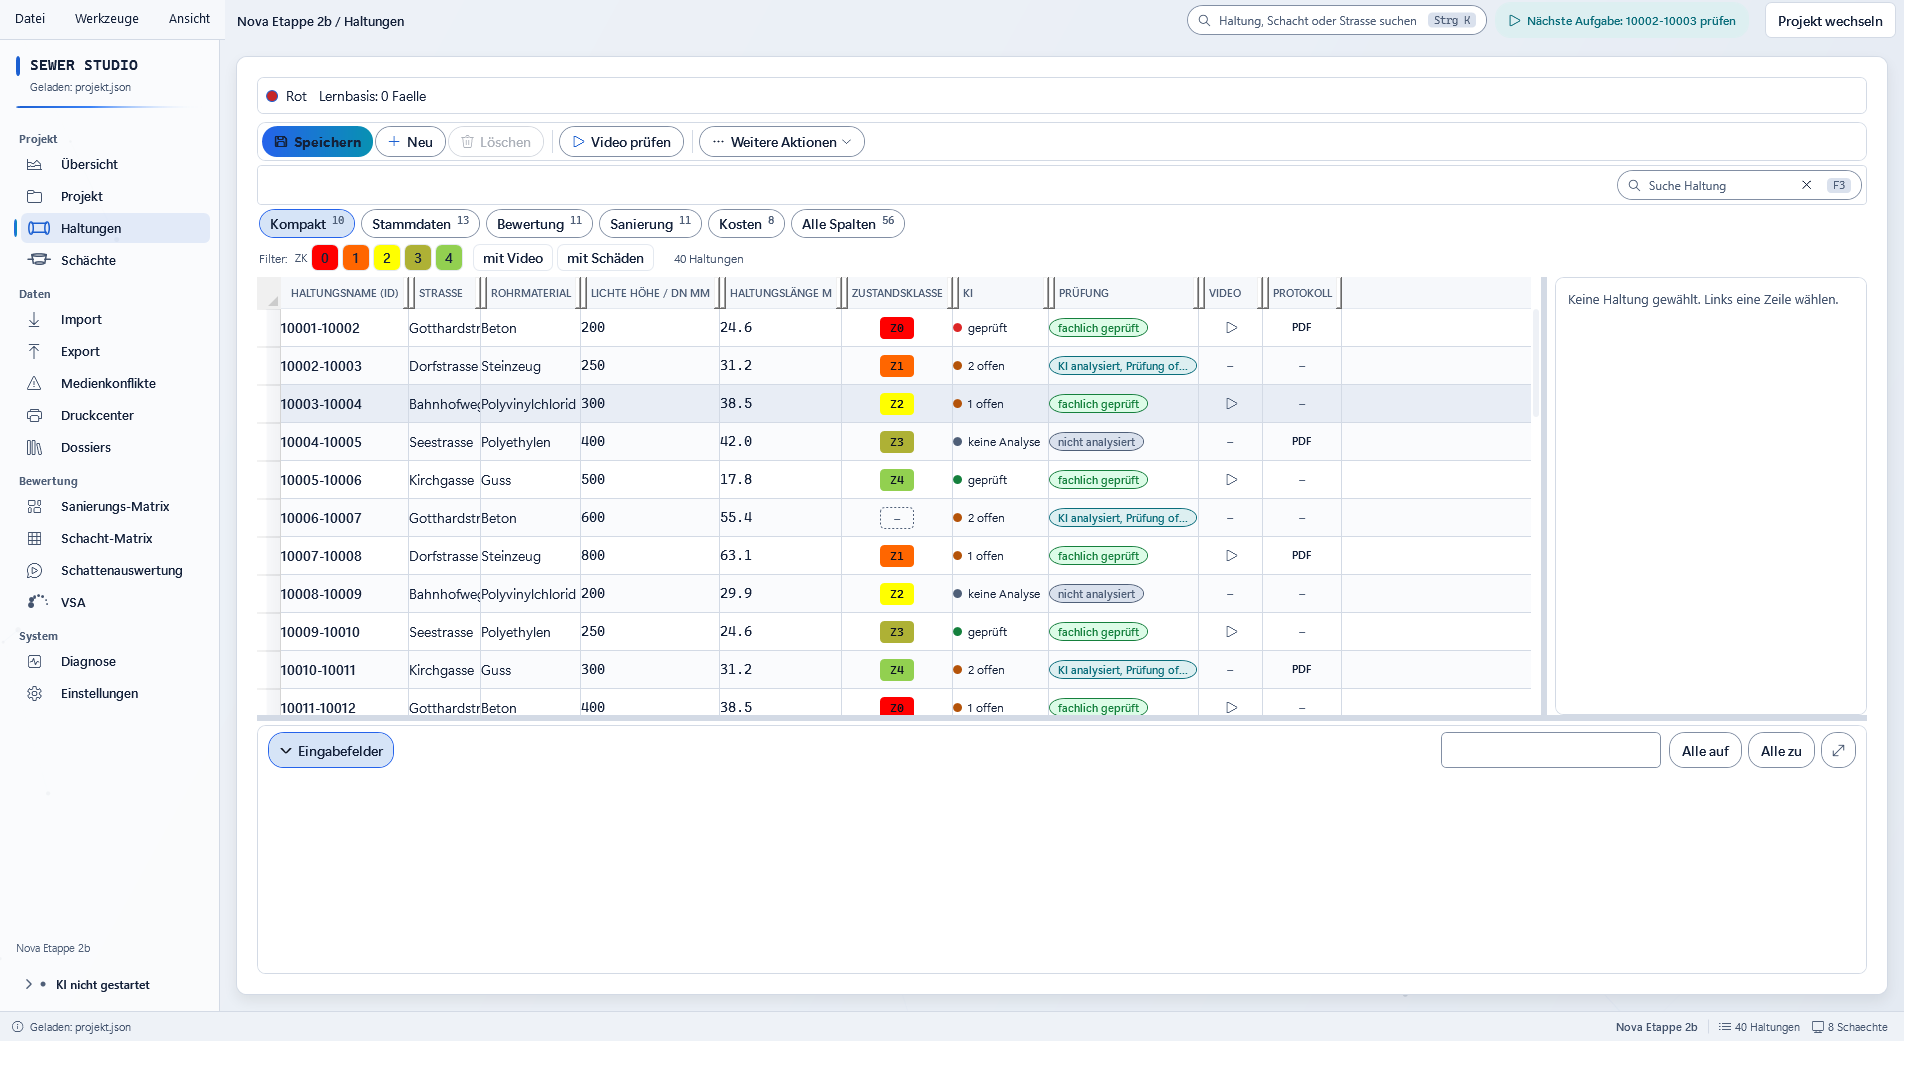
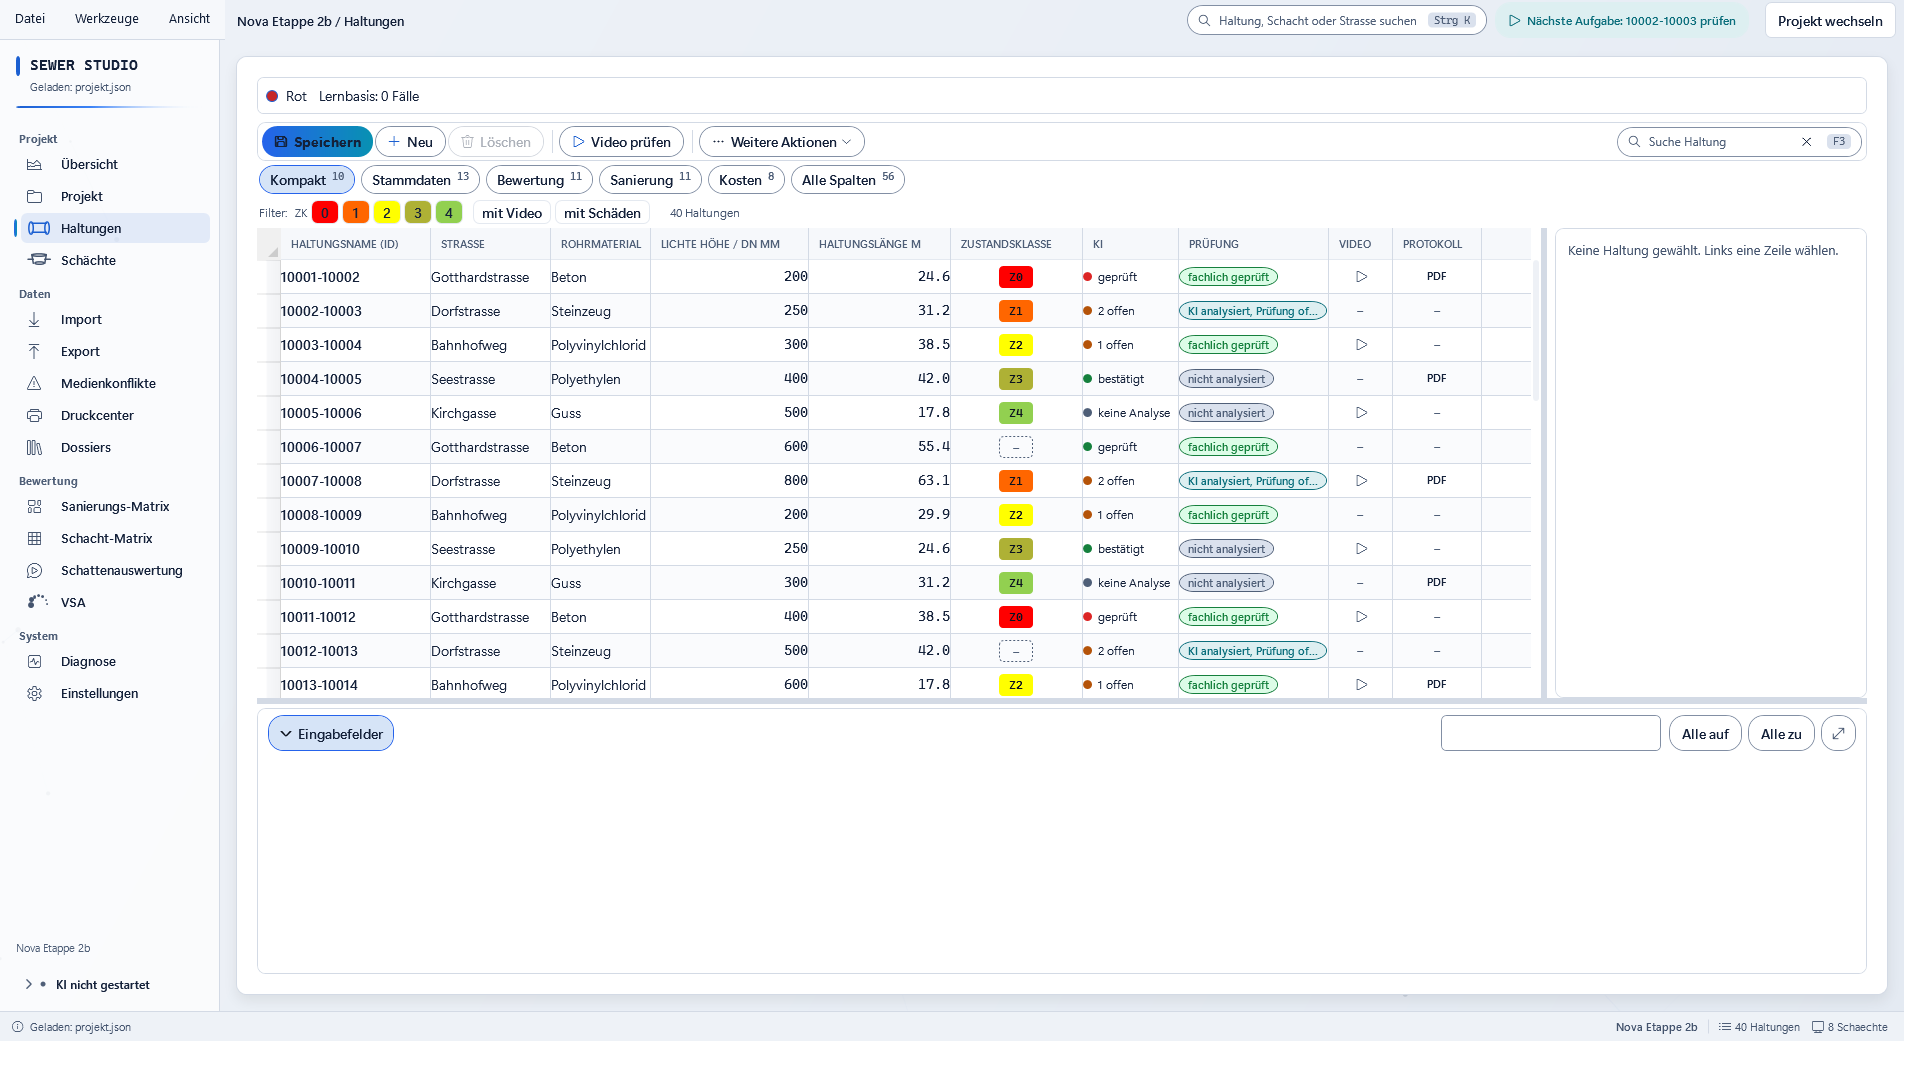
Nova-Fixwelle 2b: Pruefhost mit fuenftem Pruefstand, sechs Bilder neu
Das kuenstliche Testprojekt kannte nur vier Pruefstaende; die neue Ampel
"bestätigt" (KI gerechnet, alles bestaetigt, noch nicht abgeschlossen) kam darin
nicht vor und stand deshalb auf keinem Bild. Die Messdatei nennt zusaetzlich
Viewport- und tatsaechliche Zeilenhoehen, sonst ist "eine Zeile fehlt" nicht von
"zwanzig Pixel fehlen" zu unterscheiden.

Gemessen: Haltungen Kompakt 12 ganze Zeilen (vorher 10), "Alle Spalten" 10
(vorher 7), Zeilenhoehe 38 -> 34.

diff --git a/docs/reviews/2026-09-06-nova/wpf-etappe-2/werkzeug/Program.cs b/docs/reviews/2026-09-06-nova/wpf-etappe-2/werkzeug/Program.cs
@@ -346,8 +346,10 @@ internal static class Program
             Set(FieldKeys.Remarks, "Kuenstliche Bedienprobe");
             Set(FieldKeys.PrimaryDamages, PrimaereSchaeden(i));
 
-            // Vier Pruefstaende im Wechsel, damit alle Ampel- und Pruefungstexte im Bild stehen.
-            switch (i % 4)
+            // Fuenf Pruefstaende im Wechsel, damit alle Ampel- und Pruefungstexte im Bild
+            // stehen. Fall 3 kam mit der Fixwelle (F2) dazu: KI gerechnet, alles bestaetigt,
+            // Haltung aber noch nicht abgeschlossen — die Ampel sagt dann "bestätigt".
+            switch (i % 5)
             {
                 case 0: // fachlich geprueft, KI-Befunde bestaetigt
                     Set(FieldKeys.WorkflowStatus, "abgeschlossen");
@@ -359,6 +361,10 @@ internal static class Program
                 case 2: // fachlich geprueft, aber noch ein offener KI-Befund
                     Set(FieldKeys.WorkflowStatus, "abgeschlossen");
                     record.Protocol = BaueProtokoll(name, offeneKiBefunde: 1);
+                    break;
+                case 3: // KI gerechnet, alles bestaetigt, noch nicht abgeschlossen
+                    Set(FieldKeys.WorkflowStatus, "offen");
+                    record.Protocol = BaueProtokoll(name, offeneKiBefunde: 0);
                     break;
                 default: // nicht analysiert
                     Set(FieldKeys.WorkflowStatus, "offen");
